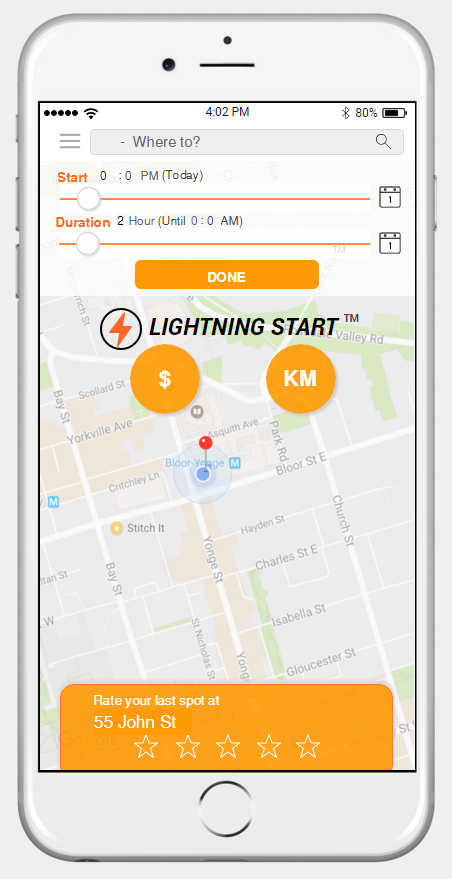
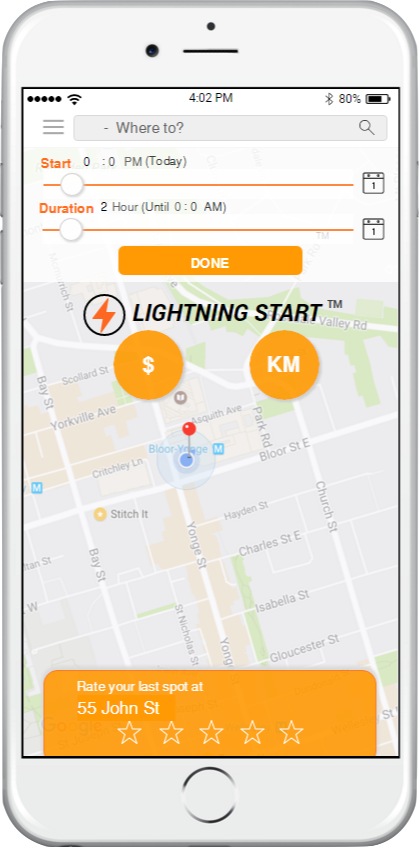
Added resizing, removed greyspace

diff --git a/index.html b/index.html
@@ -73,7 +73,7 @@
 						</p>
 				</div>
 				<!--insert image-->
-				<img src="img/apphome.PNG" height=500 width=250>
+				<img src="img/apphome.PNG" height="70%">
 		</div>
 		
 	
@@ -84,7 +84,7 @@
 					Whether you are in a rush or looking for a monthly parking pass, our application helps you find the cheapest and most convenient options.
 					</p>
 			</div>
-			<img src="img/manual.PNG" height=500>
+			<img src="img/manual.PNG" height="70%">
 		</div>
 	
 
@@ -95,7 +95,7 @@
 					Limited parking spots is always an issue for the attendee. Partner with us to ensure your events reach full occupancy.
 					</p>
 			</div>
-			<img src="img/space_description.PNG" height=500>
+			<img src="img/space_description.PNG" height="70%">
 		</div>
 	
 	
@@ -107,7 +107,8 @@
 					Download our app on the App Store and Google Play Store today. 
 					</p>
 			</div>
-			<img src="img/store.jpg" height=350>
+			<img src="img/appstore.png" height="25%">
+			<img src="img/googleplay.png" height="25%">
 		</div>
 
 

diff --git a/styles/main.css b/styles/main.css
@@ -24,6 +24,11 @@ a:hover{
 	left: 5px;
 }
 
+img {
+	max-width: 100%;
+	resize: both;
+}
+
 /*navbar*/
 
 .navbar{
@@ -134,6 +139,13 @@ nav ul li{
 	width:90%;
 	height: 100%;
 	height: 680px;
+}
+
+.container2{
+	width:90%;
+	height: 100%;
+	height: 680px;
+	background-color: #52777B;
 }
 
 @media (max-width: 911px) {
